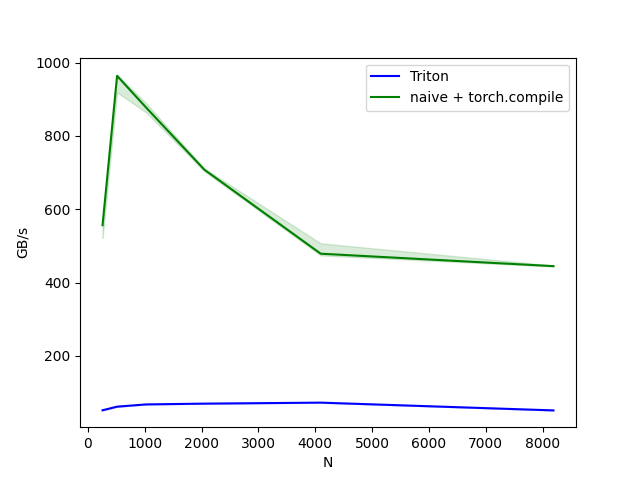
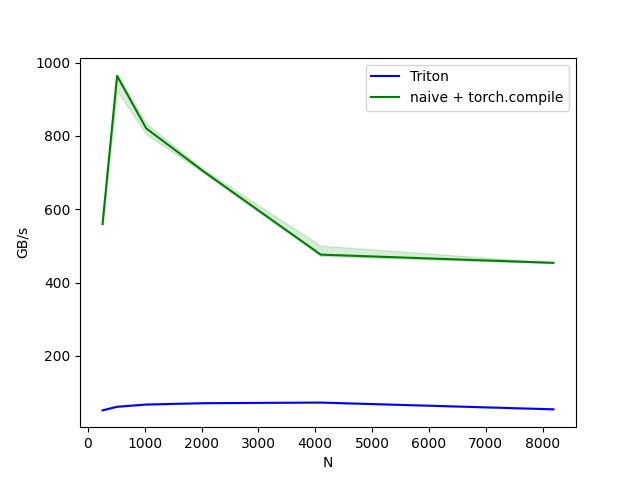
bwd doesn't look any better but i gotta go to bed. might try locking tmrw but idk that'll do anything, might go back to frankenstein approach

diff --git a/kernels/resid.py b/kernels/resid.py
@@ -152,7 +152,7 @@ def cos_norm_bwd(x, dLdy, eps: tl.constexpr, inf: tl.constexpr):
 def resid_bwd_kernel(
     h_ptr, dLdh_ptr,
     h_eigen_ptr, dLdh_eigen_ptr,
-    alpha_ptr, dLdalpha_ptr,
+    alpha_ptr, dLdalpha_pre_ptr,
     out_ptr, dLdout_ptr,
     stride_M, stride_N,
     N,
@@ -166,6 +166,8 @@ def resid_bwd_kernel(
     dLdh_eigen_ptr += offset
     out_ptr += offset
     dLdout_ptr += offset
+    # this is where we'll accumulate each PID's contribution to dLdalpha
+    dLdalpha_pre_ptr += offset
 
     cols = tl.arange(0, BLOCK_SIZE) * stride_N # stride since we never asserted x.is_contiguous()
     mask = cols < N
@@ -192,14 +194,45 @@ def resid_bwd_kernel(
     # bwd the residual conection
     dLdh = dLdresidual * (1 - alpha)
     dLdh_eigen_normed = dLdresidual * alpha
-    dLdalpha = dLdresidual * (h_eigen_normed - h)
+    dLdalpha_contribution = dLdresidual * (h_eigen_normed - h)
 
     # bwd the pre-norm
     dLdh_eigen = cos_norm_bwd(h_eigen, dLdh_eigen_normed, eps, inf)
 
     tl.store(dLdh_ptr + cols, dLdh.to(dLdh_ptr.type.element_ty), mask=mask)
     tl.store(dLdh_eigen_ptr + cols, dLdh_eigen.to(dLdh_eigen_ptr.type.element_ty), mask=mask)
-    tl.atomic_add(dLdalpha_ptr + cols, dLdalpha.to(dLdalpha_ptr.type.element_ty), mask=mask)
+    tl.store(dLdalpha_pre_ptr + cols, dLdalpha_contribution.to(dLdalpha_pre_ptr.type.element_ty), mask=mask)
+
+@triton.autotune(
+    [
+        triton.Config(
+            {"BLOCK_SIZE_M": BLOCK_SIZE_M, "BLOCK_SIZE_N": BLOCK_SIZE_N},
+        )
+        for BLOCK_SIZE_M in [16, 32, 64, 128]
+        for BLOCK_SIZE_N in [16, 32, 64, 128]
+    ],
+    key=["N"],
+)
+@triton.jit
+def dLdalpha_kernel(
+    dLdalpha_pre_ptr, dLdalpha_ptr, 
+    stride_M, stride_N, 
+    M, N: tl.constexpr, 
+    BLOCK_SIZE_M: tl.constexpr, BLOCK_SIZE_N: tl.constexpr
+):
+    pid = tl.program_id(0)
+    rows = tl.arange(0, BLOCK_SIZE_M)
+    cols = pid * BLOCK_SIZE_N + tl.arange(0, BLOCK_SIZE_N)
+    cols_mask = cols < N
+    acc = tl.zeros([BLOCK_SIZE_M, BLOCK_SIZE_N], dtype=tl.float32)
+    for i in tl.range(0, M, BLOCK_SIZE_M):
+        mask = (rows[:, None] < M) & cols_mask[None, :]
+        offsets = rows[:, None] * stride_M + cols[None, :] * stride_N
+        dLdalpha_contribution = tl.load(dLdalpha_pre_ptr + offsets, mask=mask, other=0.)
+        acc += dLdalpha_contribution
+        rows += BLOCK_SIZE_M
+    dLdalpha = tl.sum(acc, axis=0)
+    tl.store(dLdalpha_ptr + cols, dLdalpha, mask=cols_mask)
 
 #@triton_op("mylib::resid_bwd_triton", mutates_args={})
 def resid_bwd_triton(ctx, dLdout):
@@ -209,13 +242,21 @@ def resid_bwd_triton(ctx, dLdout):
     
     dLdh = torch.empty_like(h)
     dLdh_eigen = torch.empty_like(h_eigen)
-    dLdalpha = torch.zeros_like(alpha)
+    dLdalpha_pre = torch.empty_like(h)
+    dLdalpha = torch.empty_like(alpha)
 
     wrap_triton(resid_bwd_kernel)[(M,)](
-        h, dLdh, h_eigen, dLdh_eigen, alpha, dLdalpha, out, dLdout,
+        h, dLdh, h_eigen, dLdh_eigen, alpha, dLdalpha_pre, out, dLdout,
         h.stride(-2), h.stride(-1),
         N,
         block_size
+    )
+
+    grid = lambda args: (triton.cdiv(N, args["BLOCK_SIZE_N"]),)
+    wrap_triton(dLdalpha_kernel)[grid](
+        dLdalpha_pre, dLdalpha,
+        dLdalpha_pre.stride(-2), dLdalpha_pre.stride(-1),
+        M, N,
     )
 
     return dLdh, dLdh_eigen, dLdalpha
